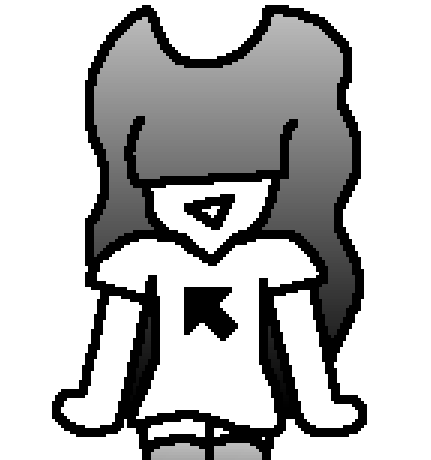
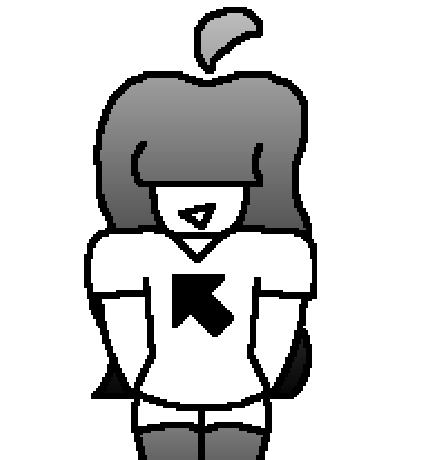
various additions

diff --git a/public/wiki/bloxyuniverse/pixie.html b/public/wiki/bloxyuniverse/pixie.html
@@ -3,30 +3,47 @@
   <head>
     <meta charset="UTF-8">
     <meta name="viewport" content="width=device-width, initial-scale=1.0">
-    <title>The web site of bloxy97</title>
+    <title>you see kids HRT really does work</title>
     <!-- The style.css file allows you to change the look of your web pages.
          If you include the next line in all your web pages, they will all share the same look.
          This makes it easier to make new pages for your site. -->
-    <link href="/style.css" rel="stylesheet" type="text/css" media="all">
+    <link href="https://bloxy97.neocities.org/wiki/wiki.css" rel="stylesheet" type="text/css" media="all">
+        <link rel="icon" type="image/x-icon" href="https://bloxy97.neocities.org/wiki/img/hazeico.png">
   </head>
   <body>
-    <h1>Welcome to my Website!</h1>
+  <div class=sidebar-left>
+  <h1>Goobish Entry #8a</h1>
+  <p>
+  sdjfhskdjfhsdkj</p>
+  <p>(underline means a WIP page...)</p>
+  
+  <ul class=buttons>
+  <li class=button><a href="/index.html">back to main site</a></li>
+   <li class=button><a href="https://bloxy97.neocities.org/wiki/home.html">back to wiki home</a></li>
+  </ul>
+  
+  </div>
+  
+  <div class=main>
+    
+    <h1>Pixie</h1>
 
-    <p>This is a paragraph! Here's how you make a link: <a href="https://neocities.org">Neocities</a>.</p>
+   <blockquote> <p><i>"ok so like imagine the Bloxxiki but with HUUGE bazoingas... like HUMONGOUS slooby dooby sliders..."</i></p> </blockquote>
+  
 
-    <p>Here's how you can make <strong>bold</strong> and <em>italic</em> text.</p>
+    <p><strong>Pixie</strong> is <a href="/wiki/bloxyuniverse/pixhaze">Pixhaze</a> after HRT. Shes beautiful!</p>
 
-    <p>Here's how you can add an image:</p>
-    <img src="/neocities.png">
-
-    <p>Here's how to make a list:</p>
-
+  </div>
+  <div class="main">
+    <h1>Trivia</h1>
     <ul>
-      <li>First thing</li>
-      <li>Second thing</li>
-      <li>Third thing</li>
+      <li> The doctors accidentally gave her Estrogen 2: Twostrogen and it gave her a body.</li>
+      <li>Apparently shes just a girl now. Like a human girl. Spooky!</li>
+      <li>She's still only on speaking terms with <a href="/wiki/bloxyuniverse/starvox">StarVOX</a>... or.. <a href="/wiki/bloxyuniverse/cosmovox">CosmoVOX</a>???</li>
+      
+      
     </ul>
-
-    <p>To learn more HTML/CSS, check out these <a href="https://neocities.org/tutorials">tutorials</a>!</p>
+  </div>
+<div class=sideimage><img src="https://bloxy97.neocities.org/wiki/img/pixie.png"></div>
   </body>
 </html>

diff --git a/public/wiki/home.html b/public/wiki/home.html
@@ -63,6 +63,7 @@
     <p>╠═ #6 <a href="/wiki/bloxyuniverse/hexole">六面 (Hexole)</a></p>
     <p>╠═ #7 <a href="/wiki/bloxyuniverse/bloodwinner">血眼悪魔 (Bloodwinner)</a></p>
     <p>╠═ #8 <a href="/wiki/bloxyuniverse/pixhaze">ピク霧 (Pixhaze)</a></p>
+    <p>╠══ #8a <a href="/wiki/bloxyuniverse/pixie">Pixie</a></p>
     <p>╠═ #9 <a href="/wiki/bloxyuniverse/starvox">星箱 (StarVOX)</a></p>
     <p>╠══ #9a <a href="/wiki/bloxyuniverse/cosmovox">CosmoVOX</a></p>
     <p>╠═ #10 <a href="/wiki/bloxyuniverse/vipple">Vipple</a></p>
@@ -79,7 +80,8 @@
     <p>╠══ #20a <a href="/wiki/bloxyuniverse/nisenyan">Nisenyan</a>  </p>
     <p>╠═ #21 <a href="/wiki/bloxyuniverse/orbuole">Orbuole</a> </p>
     <p>╠═ #22 <a href="/wiki/bloxyuniverse/nakaza">Umiushi Nakaza</a></p>
-    <p>╚═ #16 <a href="/wiki/bloxyuniverse/TEC11">TEC-11</a> </p>
+    <p>╠═ #23 <a href="/wiki/bloxyuniverse/TEC11">TEC-11</a> </p>
+    <p>╚═ #24 <a href="/wiki/bloxyuniverse/TEC01">TEC-01</a> </p>
     </div>
     <div id=chloe>
        <h2><p><a href="/wiki/chloeuniverse/mistresschloe">Chloe</a>'s Universe</p></h2>
@@ -147,6 +149,21 @@
   <p> <h2 id=4koma>FIRST BATCH (9/6/25): </h2></p>
   <p> <img src="/wiki/img/movie.png"><img src="/wiki/img/cinder.png"> </p>
     </div>
+
+    <div class="splash">
+      <h1 class = "splash-header"><img src="\images\blurb.png"></h1>
+    </div>
+
+    <script>
+      var splashScreen = document.querySelector('.splash');
+splashScreen.addEventListener('click',()=>{
+  splashScreen.style.opacity = 0;
+  setTimeout(()=>{
+    splashScreen.classList.add('hidden')
+  },610)
+})
+
+    </script>
 
      <script>
         function flavormytext() {

diff --git a/public/wiki/bloxyuniverse/TEC01.html b/public/wiki/bloxyuniverse/TEC01.html
@@ -28,22 +28,22 @@
     
     <h1>TEC-01</h1>
 
-   <blockquote> <p><i>""</i></p> </blockquote>
+   <blockquote> <p><i>"Its the iTec 6! its just like the iTec 5 but the screen has 10% more pixels! $7500 dollars please."</i></p> </blockquote>
   
 
-    <p><strong>TEC-11</strong> is a robot and cousin to <a href="/wiki/bloxyuniverse/TEC97">TEC-97</a>. obsessed with this hyper niche sandbox game that no one knows or cares about.</p>
+    <p><strong>TEC-01</strong> is a acrylic freak made by 🅱apple to farm rich people and get to Tsundere Hell as fast as possible. He doesn't know his purpose, but he seems to get along with the other TECs</p>
 
   </div>
   <div class="main">
     <h1>Trivia</h1>
     <ul>
-      <li>he never has access to the internet and has a 3 year old build of the game.</li>
-      <li>his parents constantly feed him coffee. It's laced with gamersupps</li>
-      <li>He actually exists. like really. im not lying i swear.</li>
+      <li>He is <a href="/wiki/bloxyuniverse/TEC-98">TEC-98</a>'s secret cousin.</li>
+      <li>He HATES <a href="/wiki/bloxyuniverse/madomoji">Madomoji</a>. I still have no idea why.</li>
+      <li>Doesn't exist. (yet)</li>
       
       
     </ul>
   </div>
-<div class=sideimage><img src="https://bloxy97.neocities.org/wiki/img/tec11.png"></div>
+<div class=sideimage><img src="https://bloxy97.neocities.org/wiki/img/tec01.png"></div>
   </body>
 </html>

diff --git a/public/wiki/wiki.css b/public/wiki/wiki.css
@@ -171,7 +171,34 @@ border: 5px black;
       }
   }
 
-  
+  .hidden{
+  transition : 0.5s;
+  display : none;
+}
+.splash-header {
+  height : 90%;
+  color : white;
+  font-family : consolas;
+  font-size : 30px;
+  display : flex;
+  justify-content: center;
+  align-items : center;
+}
+
+.splash{
+  cursor : pointer;
+  position : fixed;
+  background: url("\images\splashbg.png");
+  top : 50%;
+  left : 50%;
+  height : 100%;
+  width : 100%;
+  transform : translate(-50%,-50%);    
+  background-color: rgba(0,0,0);
+  transition : all ease-in-out 600ms;
+}
+
+
 /*Tentative mobile support.*/
 @media(orientation:portrait) {
   .sidebar-left {
